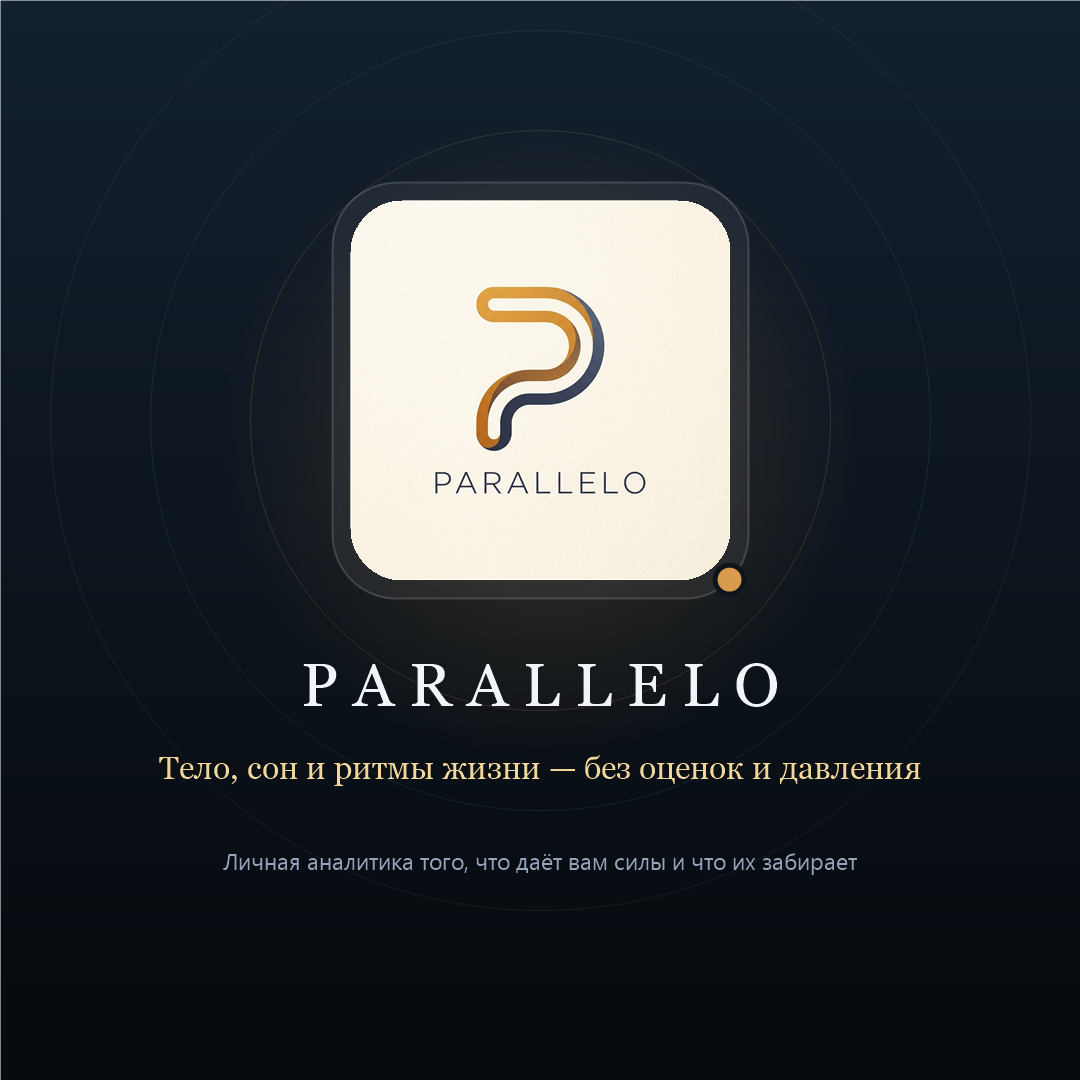
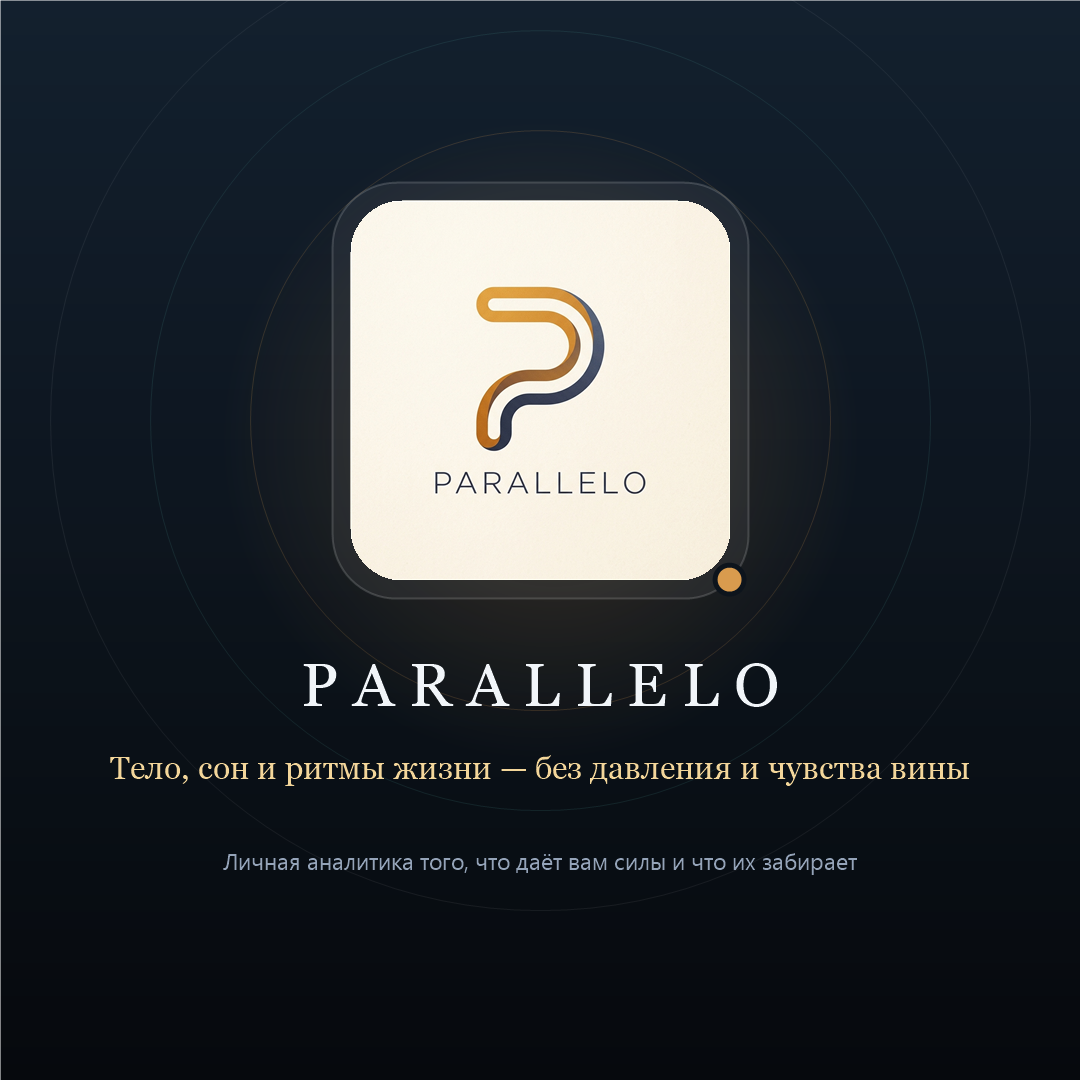
chore(copy): replace 'без оценок' with 'без осуждения / давления и чувства вины'

Changed region(s): [[0.0917, 0.7028, 0.8861, 0.7333]]

diff --git a/src/components/RitualLogger.jsx b/src/components/RitualLogger.jsx
@@ -294,7 +294,7 @@ export function RitualLogger({
             Близость и вещества
           </span>
           <p className="text-[11px] mt-0.5" style={{ color: activeTheme.textMuted }}>
-            Без оценок и стыда — эти факторы сильно влияют на сон и состояние на следующий день.
+            Без осуждения и стыда — эти факторы сильно влияют на сон и состояние на следующий день.
           </p>
         </div>
         <div className="space-y-2">{bodySubstancesRituals.map(renderRitualButton)}</div>

diff --git a/src/components/SplashScreen.jsx b/src/components/SplashScreen.jsx
@@ -89,7 +89,7 @@ export function SplashScreen({ onFinish }) {
             PARALLELO
           </h1>
           <p className="text-sm font-serif text-amber-200/90 leading-relaxed">
-            Параллельная вселенная без спешки, оценок и давления
+            Параллельная вселенная без давления и чувства вины
           </p>
           <p className="text-xs text-slate-400 leading-relaxed">
             Место, где тело, сон и события дня складываются в честную картину вашего ритма.

diff --git a/src/components/WelcomeBanner.jsx b/src/components/WelcomeBanner.jsx
@@ -36,7 +36,7 @@ export function WelcomeBanner({ activeTheme }) {
         className="text-[11px] font-medium mb-1"
         style={{ color: activeTheme.primary }}
       >
-        Без оценок, давления и чувства вины
+        Без осуждения, давления и чувства вины
       </div>
 
       <h2
